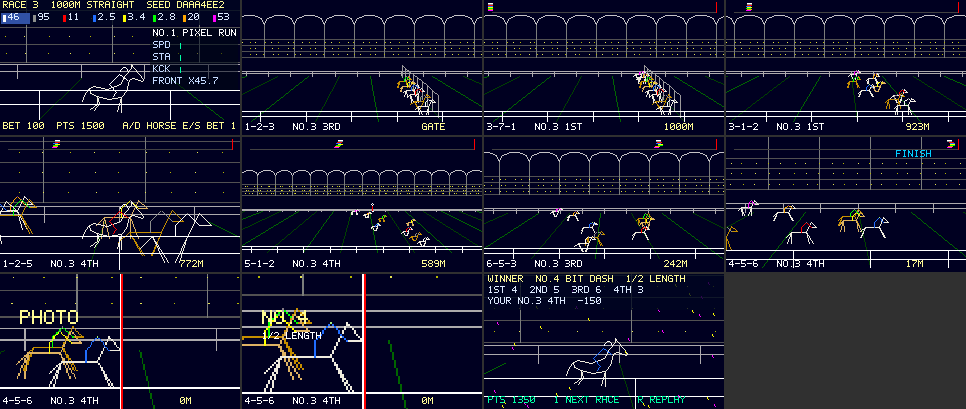
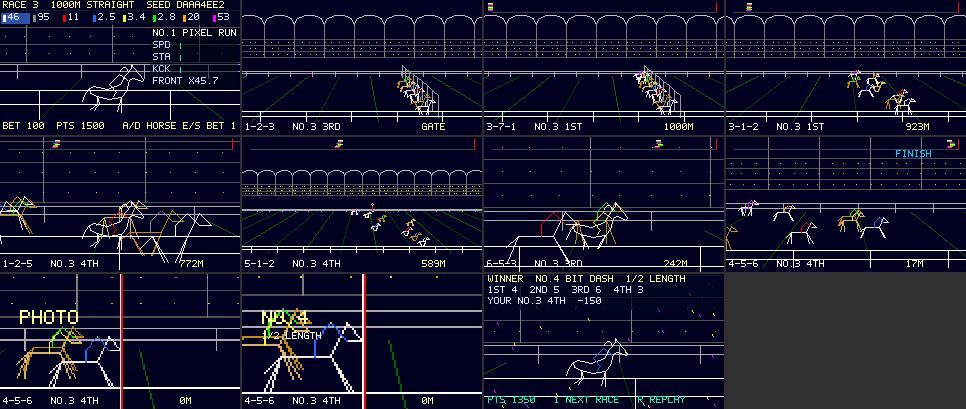
docs(derby): the big screen and the director, with device measurements
Why the screen is drawn on surface 0 (the second surface's frames could
not be allocated), its construction rules, occlusion, the director and
the angles that could and could not be added, host checks, device fps,
heap, the evaluation margin measured with padded sources (6.1-8.7 KB),
host and device pictures, and what to check on the panel.

Changed region(s): [[0.4969, 0.3521, 0.7453, 0.6748]]

diff --git a/docs/apps/derby-watch.md b/docs/apps/derby-watch.md
@@ -4,6 +4,7 @@
 
 ## 結論
 
+- **2026-09-30 追記（2）: 大型画面（ターフビジョン）と演出カメラを足した**（ブランチ `vm/derby-vision`）。コースの向こう側にワールド固定の大型画面が立ち、その中に先頭集団を追う中継映像が映る。レースは監督がカメラを自動で切り替え（手動キーは 5 秒だけ優先）、新しい角度として低い横位置（VISION）と正面（HEAD ON）を足した。**画面は面を 2 枚にせず、面0の中に塗りと映像を描いた**（面1のフレームが実機で確保できなかった）。設計と実測は末尾の「大型画面と演出カメラ（2026-09-30）」。
 - **2026-09-30 追記: 実機で起動に失敗していたのを直した**（`EVAL_ERROR InternalError: interrupted`）。原因はソースの評価中に `pocket.memory.info().internalFreeBytes` が `null` で、起動時の登録ループが終わらなかったこと。実機の数値は下の「実機での測定（2026-09-30）」。以下の本文は host の実測（初版のまま）。
 - **題材は馬、コースは 1000 m の直線、夜のレース。** 横から追うカメラなら奥行きごとの投影が「拡大＋平行移動」になり、割り算の無い VM で柵・観客席・刈り目を ADD の繰り返しで描ける。コースと直交する線（芝の刈り目・ゲート・決勝線）は消失点 (120, 地平線) に集まる。
 - **遊びはパドックで1頭選んで賭けるだけ**（A/D で選択、E/S で賭け金、`1` で決定、オッズ表示）。レース中は `,` `/` でカメラ（WIDE／CLOSE／FIELD）を切り替える。ゴール前 20 m からスロー（FINISH カメラ）、写真判定（決勝線に沿って見る静止画を 2 倍に拡大）、結果（着順・着差・持ち点）、`R` で同じレースを再生、`1` で次のレース。
@@ -273,3 +274,230 @@ C を変えていないので DIRAM が動かないのは期待どおり。
 - **オッズの較正。** 本命側で予測より実際が強い（50% 以上の区間で 59.6% 予測に対し 78.3%）。softmax の裾の形の問題で、ゲームとしては許容したが、賭けの損得は本命買いが有利になる。
 - **レースのモデルの「競り合い」項**は接戦を作るための項で、競馬の物理ではない。
 - **大写しの騎手の頂点は焼いた定数**（`HX`,`HY` を変えたら作り直し。README に生成方法）。
+
+## 大型画面と演出カメラ（2026-09-30）
+
+ブランチ `vm/derby-vision`（`vm/main` 964f634 から）。依頼は「本物の競馬場の大型 LCD（ターフビジョン）を Kasane でうまく再現し、**定点カメラで馬群を追う画面**と、**演出のために角度・倍率を切り替えるカメラ**を並行で動かす」。決めた前提: 大型画面は**ワールド固定**（演出カメラのパン・ズームで画面上の位置と大きさが変わる）、中の映像は常に先頭集団を追い、**fps や描画の細かさは下げてよい**（演出カメラ側のなめらかさを優先）。**数値は種別を明記する**: 実機の実測、host の実測、計算。美的な評価はしない。
+
+### 結論
+
+- **大型画面は面0の中に描いた（1 面のまま）。** 最初の設計（面1を `createSurface` で作って中継を描き、image ノードで貼る）は host の全検査を通ったが、**実機では面1のフレームが確保できなかった**: 評価の直後に空き 56,696 B・最大連続 10,240 B で、1 枚 10,246 B のフレームが 2 枚入らず、評価中・最初のフレーム・以後のどのフレームでも `frame allocation failed`（実機の実測、下の「面を 2 枚にしなかった理由」）。代わりに `vis` plan が画面の面を 1 行 1 本の水平線で塗り、その上に中継映像を同じ `course()` の別カメラ呼び出しで描き、ベゼル・柱を描く（画家のアルゴリズム）。メモリは plan 3 本分（`vis`・`fr`・`hd`、計算で約 2.6 KB＋点列）しか増えず、面1の更新のたびに面0が止まる問題も無い。
+- **ワールド固定の作り方**: 画面は中心 x = 840 m・奥行き 34 m（向こう正面の柵 22.6 m とスタンド 40 m の間）・幅 40 m・高さ 6〜16 m。JS が演出カメラで四隅を投影して `rnd()` した整数の矩形 `vr` を 1 つ作り、**塗り・ベゼル・中継映像・文字のすべてがこの整数を使う**ので、枠と映像がずれない（host で全フレーム検査: 塗りは面の内側ちょうど、最初のベゼルの輪は 1 px 外、不一致 0）。
+- **遮蔽**: 画面の下端 6 m は「どの演出カメラでも、手前の物（馬・柵・距離標 4 m・ゲート 2.6 m）の上端より画面上で上」に来る高さ（計算: `(h − 6)/34 < (h − e)/d` がカメラの高さ h = 1.6〜15 m のすべてで成り立つ）。host は全フレームで、面の後に描いた線分のうち面に丸ごと入らないもの（手前の物、または中継のはみ出し）をラスタ化し、**面の中の画素が 0** であることを確かめた（8 通りの実行すべてで 0）。CLOSE では画面の上端が y < 13（ミニマップに被る）になるので出さない。
+- **2 つのカメラ**: 演出カメラ（全画面）は監督が自動で切り替える（WIDE → FIELD → 先頭交代で CLOSE → ラスト 300 m で CLOSE → 大型画面の前で VISION → 接戦なら HEAD ON → FINISH のスロー）。手動キー（`,` `/`）は 5 秒だけ優先。中継カメラ（画面の中）は先頭の 6 m 後ろ・高さ 3 m の低い横位置で、先頭から `FN` 頭（MID は 4 頭）を映す。
+- **足した角度**: VISION（横からのまま高さ 1.6 m・地平線 y = 84 の低い位置。カメラは画面の前 ±30 m に留まり、馬群が画面の下を駆け抜ける）と HEAD ON（決勝線の 12 m 先の静止カメラが正面から。馬ごとの 1/z は JS の割り算）。**動く斜めのカメラはできない**（下の「角度」）。
+- **実機（MID、診断 image の MDT）**: 画面の無いレース 29.7 fps（JS 15.0 ms、帯描画 9.0 ms）、**画面が映る間（1 レース約 5 秒）26.5 fps**（JS 18.2 ms、帯描画 10.4 ms）、HEAD ON 29.7 fps。キー注入だけの image（MDT なし）の `KASANE_PAINT` 窓では VISION 27.3 fps、他のカメラ 29.8〜30.0 fps。評価の余裕は **6.1〜8.7 KB**（詰め物で測った、下の表）で、これが最も細い資源。ネイティブの空きはレース中の最小 23,200 B、ターン内の最小 14,980 B（ゲートの登録）。`LOADSTALL` なし。
+
+### 構成規則（ワールド固定の大型画面）
+
+| 要素 | 描き方 | 位置の出どころ |
+| --- | --- | --- |
+| 面の矩形 `vr` | JS: `x = 120 + (840 ∓ 20 − cx)·f/34`、`y = hy + (h − 16 または 6)·f/34` を `rnd()` | 演出カメラ `[f, h, hy]` と `cx` |
+| 面の塗り | `vis` plan: 内側の各行に水平線 1 本（`REPEAT_REG` で行数だけ）。色は点灯の演出で黒 → 灰 → 0x0866 | `vr` の整数（入力 0〜3 は `vr[0]−1, vr[1]−1, vr[2], vr[3]`） |
+| ベゼル | 同じ plan: 面の 1 px 外から外へ `b` 本の輪（`b` = 0.4 m の px、最低 1）。上端に明かりの線 | 同じ整数 |
+| 柱 | 同じ plan: 幅の 25% と 75% の位置に 2 本ずつの縦線を、ベゼルの下から奥行き 34 m の地面まで | 同じ整数と `gy(34)` |
+| 中継映像 | `course(カメラ, 先頭−6 m, xs, −1, 0, vr)`: カメラは `[85·z, 3, vr[1] + 4.8·z]`（`z` = 面の幅/120）。柵 2 本（支柱は面の中だけ）と、先頭から `FN` 頭のうち面に丸ごと入る馬 | 面の中心と幅から。面の外へ出る線を作らない |
+| 文字 | view の text 2 つ（残り距離と上位 3 頭、`LIVE`）と rect 1 つ（ランプ、4 フレームごとに色を替えて点滅）。面の幅が 100 px 以上のときだけ表示し、毎フレーム `setRect`。clip はパネル全体 | `vr` から固定のずらし量 `LO` |
+
+描く順は「スタンド → 観客 → 面の塗り・ベゼル・柱 → 中継（柵・馬・手前の柵） → 向こう正面の柵 → 刈り目 → 距離標 → ゲート → 馬 → 手前の柵 → ミニマップ」。面より奥の物（スタンド・観客）は塗りで隠れ、手前の物は面にかからない（上の遮蔽の規則）。
+
+**画面が見えない条件**（`vr = null`、塗りも文字も出さない）: レース以外、HEAD ON、画面外、上端 y < 13（ミニマップ y 2〜12 に被る。CLOSE は常に）、幅 8 px 未満、幅 160 px 超（1 draw のラスタ上限 8,192 の手前。今のカメラの最大は VISION の 153 px で、そのときの `vis` の 1 draw のラスタは 6,849 = 84%、host の実測）。
+
+### 面を 2 枚にしなかった理由（実機の実測）
+
+| 試したこと | 結果 |
+| --- | --- |
+| 面1のフレームを評価中に確保（MEGADEMO の方式: `createSurface` → `resource` → `beginFrame(0, 面1)` → `beginFrame(0)`） | `EVAL_ERROR PocketError: frame allocation failed`（評価中の `beginFrame`）で起動に失敗 |
+| 評価中は面0だけ、面1は最初のフレームから毎フレーム試す（診断） | 評価直後の `MEM free=56,696 largest=10,240`。以後のフレームでも最大連続は 10,240 B のままで、一度も確保できなかった（ゲートで `FRAMEFAIL`） |
+| 参考: 修正前（ソース 23,491 B）の評価直後 | 空き 67,804 B・最大連続 31,744 B（2026-09-30 の前の節） |
+
+1 枚のフレームは `sizeof(ksn_proc_frame)` = 10,246 B（計算、procedural-ir-experiment.md）で、最大連続 10,240 B に 6 B 足りない。ソースが 29.7 KB に増えてゲストが評価で使う領域が広がり（評価後のゲスト: 修正前 109.6 KB、面 2 枚の版 120.8 KB、実機）、10 KB を超える連続領域が残らなかったと推定する（断片化の内訳は測っていない）。**ネイティブを変えずに 20 KB の連続領域を作る手が無い**ので、面0に描く形にした。副産物:
+
+- 面1の更新のたびに面0が 1 フレーム止まる問題（表示待ちの候補は全面で 1 枚）が起きない。中継も演出カメラと同じフレームで描かれる。
+- 中継は線画のまま拡大・縮小されるので、image の STRETCH（最近傍）の間引きが無い。
+- 引き換えに、画面が映るフレームは JS と帯描画が増えて fps が下がる（下の表。面1なら「止まるフレーム」、面0なら「全体が少し遅い」になる）。
+
+**ネイティブに変更を勧めるなら**（根拠つきの提案。今回は変えていない）: 面ごとに線分の上限を選べる `createSurface({segments: n})`。中継は MID で 1 フレーム平均 63 本（host: 309 フレームで 19,587 本）なので、n = 256 ならフレームは約 2.6 KB（計算: 10 B × 256）になり、今回の断片化でも確保できる見込み。
+
+### 監督（自動切替）の規則
+
+先頭の位置 L（m）で決める。1 回切り替えたら 45 フレーム保つ。先頭交代は 400 m を過ぎたら 60 フレームの CLOSE（新しい先頭）。
+
+| L | カメラ | ねらい |
+| --- | --- | --- |
+| 0〜150 | WIDE | 発走 |
+| 150〜400 | FIELD | 馬群の広がり |
+| 400〜700 | WIDE（先頭交代で CLOSE） | 先頭交代 |
+| 700〜780 | CLOSE（その時の先頭） | ラスト 300 m |
+| 780〜900 | VISION | 大型画面の前を駆け抜ける。画面の中の中継と、手前の馬群が同時に映る |
+| 930〜980、1・2 着の差 < 1.5 m | HEAD ON（スローまで保つ） | ゴール前の接戦 |
+| 980〜 | FINISH（スロー） | 従来どおり |
+
+手動のキー（WIDE / CLOSE / FIELD の順送り）は押してから 150 フレーム優先し、その後は監督に戻る。手動の CLOSE は選んだ馬、監督の CLOSE は先頭。再生（`R`）は同じ種で同じカメラの流れになる（カメラはレースを変えない: host と実機で `DERBY FINISH` 行が全桁一致）。
+
+### 角度: できたこと・できないこと
+
+| 角度 | 判断 | 理由 |
+| --- | --- | --- |
+| 低い横位置（VISION） | **足した** | 横からのカメラのまま、高さと地平線だけを変える（`[130, 1.6, 84]`）。投影は今までどおり「拡大＋平行移動」 |
+| 正面（HEAD ON） | **足した（接戦のときだけ、静止カメラ）** | 馬ごとに奥行き z が違うが、割り算は JS が馬ごとに 1 回（`q = 400/z`）で済み、正面の馬の plan `fr`（56 命令・入力 7）に x・地面・1 単位の px を渡す。カメラが動かないので、柵・決勝線・スタンド・大型画面（真横から見た薄い台形）は型付き点列 1 本（44 点）の定数にした。奥の馬から描く（`order()` の逆順） |
+| 動く斜めのカメラ | **足さない** | 直線は透視でも直線なので柵の線は JS の端点 2 つで描けるが、支柱・刈り目・観客の点・馬の頂点は奥行きが 1 つずつ違い、VM に割り算が無い。BIG WAVE の 1/d の級数（`y(1 − u + u² − u³)`）は 1 plan で 12 命令を使い、波の plan は 62/64 命令・16/16 レジスタで上限だった。走者の plan（40 命令・16 レジスタ）に級数を足す余地は無く、横向きの馬の絵を斜めに歪める射影は入力 8 個に入らない |
+| 回転（MEGADEMO の TWIST の複素数倍） | **足さない** | 断面ごとに z を掛ける幾何級数は、廊下のように「世界に固定されない断面」には使えるが、コースの支柱は世界に固定されている（BIG WAVE の却下案と同じ） |
+
+### 検証（host）
+
+`python3 tools/games/run_derby.py`（WSL、ASan/UBSan）と `--m32`。今回足した検査:
+
+| 検査 | 内容 | 結果（全 8 通り: MID の全台本、LIGHT・HEAVY、各段階の監督だけ（`DERBY_NOCAM=1`）、LIGHT・HEAVY で 8 番を選んで手動 CLOSE（`DERBY_PICK=7`）） |
+| --- | --- | --- |
+| 塗りとベゼル | `vis` の最初の `rows` 本が面の内側の各行ちょうど（x は `vr[0]..vr[2]−1`）、続く 4 本が 1 px 外の矩形 | 誤り 0 |
+| 面の上の異物 | 面の後に描いた線分のうち、面に丸ごと入らないものをラスタ化し、面の中の画素を数える | 0 px（MID: 面のあるフレーム 329、中継の線分 19,587 本はすべて面の中） |
+| 文字 | 表示中の文字ノード（clip をパネル全体にした ref）の矩形が、そのフレームの面の中に入り、面が描かれたフレームでだけ表示される | はみ出し 0（MID: 179 フレーム、537 回） |
+| 全画素・3 通りの実行 | 従来どおり（全 draw を plan・デバッグ単歩・単歩 VM で一致、全フレームを全面と 8 行の帯で全画素比較） | 不一致 0 |
+| ref とコマンド | `replace` ごとの ref 数、`stats().displayed.commands` | 最大 30/32（パドック、従来どおり）・30/80。レースの場面は 9 ref（計算: 画像 1＋HUD 5＋文字 3） |
+
+**実機で見つけて直した既存の潜在不具合**: LIGHT（刈り目 10 m 間隔）で遠いレーンの CLOSE（焦点距離が最大 509）になると、刈り目の最初の線の手前端が x = −483〜−499 になり VM の座標範囲（−480〜720）を外れて `procedural execution failed` で止まった。手動の CLOSE は選んだ馬だけだったので、これまでの台本（3 番）では出なかった。監督が先頭（どのレーンでもありうる）を CLOSE にするようになって実機で出た。手前端が −470 より左になる刈り目を描かないようにした（`i0` の下限）。host に「監督だけ」と「8 番の CLOSE」の実行を足した。
+
+#### フレームごとの統計（host、MID の台本、レースの場面）
+
+| フレーム | 数 | draw 最大 | 線分 最大 / 平均 | ラスタ 最大 / 平均 | 1 draw のラスタ 最大 | フレームのステップ 最大 |
+| --- | ---: | ---: | ---: | ---: | ---: | ---: |
+| 画面なし | 2,293 | 16 | 491 / 347 | 6,650 / 5,039 | 2,370 | 2,861 |
+| 画面あり | 329 | 22 | 581 / 469 | 12,750 / 10,050 | 6,849（`vis`） | 3,203 |
+| 画面あり（LIGHT） | 158 | 21 | 341 / 318 | 12,102 / 11,562 | 6,849 | 1,661 |
+| 画面あり（HEAVY） | 158 | 24 | 654 / 570 | 13,405 / 12,868 | 6,849 | 3,737 |
+
+| 上限 | 値 | 使用（全実行の最大） | 率 |
+| --- | --- | --- | --- |
+| 線分／フレーム | 1,024 | MID 581（HEAVY 759、画面なしの FIELD） | 57%（74%） |
+| ラスタ／フレーム | 65,535 | 13,405 | 20% |
+| ラスタ／draw | 8,192 | 6,849（VISION の `vis`、面 153×38 px の塗り） | 84% |
+| VM ステップ／draw | 10,000 | 3,861（HEAVY の観客） | 39% |
+| 命令／plan | 64 | 56（`fr`）、`vis` 54 | 88% |
+| 同時 plan | 32 | 25 | 78% |
+| 点列の点数 | 128 | 44（`hd`） | 34% |
+| 点列の座標 | −480〜720 | −155〜425 | — |
+| 面 | 2 | 1 | 50% |
+
+#### ゲスト heap（host、m32）
+
+| 項目 | 値 | 種別 |
+| --- | --- | --- |
+| ソース | 23,491 → 29,698 B（+6,207） | 実測 |
+| コンパイルのピーク（`DERBY_COMPILE_ONLY`） | +100,400 → +113,424 B（+13,024） | host の実測 |
+| コンパイル後の保持 | +46,388 → +51,564 B | host の実測 |
+| 実行中の GC 後の最大 | 133,908 B（host の計数用 prelude 38,996 B 込み） | host の実測 |
+
+コンパイルのピークはコード量に比例しない（1.5 倍ずつ伸びる内部バッファの段がある）。小さな関数を消す・数値の表を文字列にする、は 0.1〜1 KB しか効かなかった（host の実測）。
+
+### 実機での測定（2026-09-30）
+
+**この節の数値は実機の実測**。image は 3 種: 診断（`-DKASANE_MEGADEMO_TRACE=ON -DPOCKET_KEYTEST=ON`、1 ターン 1 行の `MDT`）、キー注入だけ（`-DPOCKET_KEYTEST=ON`、fps とキャプチャ）、通常（回帰と最後の書き込み）。USB からキーを送って APPS の 12 行目を起動し、パドックで `1`、レース・写真判定・結果、`R` で再生、`1` で次のレース、Back。
+
+#### fps と時間（MID、最終のソース、診断 image の MDT。2 レース＝本番と再生）
+
+| 場面・カメラ | ターン数 | JS 中央値 / p95（ms） | 帯描画（ms） | フレーム間隔 中央値 / p95 / 最大（ms） | fps |
+| --- | ---: | ---: | ---: | ---: | ---: |
+| パドック | 107 | 8.2 / 37.9（登録とオッズ） | 12.4 | 34.0 / 58.8 / 75.5 | 27.8 |
+| ゲート | 82 | 11.2 / 25.6 | 9.0 | 34.0 / 43.9 / 48.0 | 27.9 |
+| レース（画面なし） | 2,344 | 15.0 / 16.6 | 9.0 | 33.7 / 34.9 / 38.6 | 29.7 |
+| 　うち FIELD | 600 | 15.8 / 17.0 | 9.1 | 34.0 / 35.3 / 38.6 | 29.3 |
+| 　うち CLOSE | 272 | 13.2 / 13.6 | 8.8 | 34.0 / 34.0 / 37.3 | 29.8 |
+| **レース（画面あり、VISION と WIDE）** | 292 | **18.2 / 18.7** | **10.4** | **37.7 / 38.4 / 41.4** | **26.5** |
+| HEAD ON（1 つ前の版、別の 1 レース） | 50 | 10.8 / 11.2 | 8.8 | 34.0 / 34.0 / 37.2 | 29.7 |
+| 写真判定 | 222 | 10.3 / 10.6 | 22.0 | 41.2 / 42.3 / 51.3 | 24.2 |
+| 結果 | 129 | 7.1 / 7.6 | 11.4 | 34.0 / 34.1 / 42.9 | 29.9 |
+
+画面のあるフレームの間隔のばらつき（標準偏差）は 0.63 ms で、面を 2 枚にしたときに予想した「数フレームに 1 回止まる」形のカクつきは無い（全体が一様に遅くなる）。キー注入だけの image（MDT の出力なし）の `KASANE_PAINT` 30 フレーム窓では、VISION 27.3 fps（turn 18.1 ms、render 10.4 ms）、WIDE・FIELD・CLOSE・FINISH 29.8〜30.0 fps、写真判定 25.0 fps、パドック 29.8 fps。
+
+**段階ごと**（診断 image、1 レースずつ。「1 つ前の版」＝最後の 2 つの JS の最適化（1 フレーム 1 回の並べ替え、矩形の計算を関数から外す）の前。MID で画面ありのフレームが 25.7 → 26.5 fps に変わった程度）:
+
+| 段階 | 画面なしのレース fps（最も遅いカメラ） | 画面ありの fps | 画面ありの JS（ms） |
+| --- | --- | ---: | ---: |
+| LIGHT | 29.9（FIELD 29.8） | 26.6 | 18.3 |
+| MID（既定） | 29.5（FIELD 29.0） | 25.7 | 19.4 |
+| HEAVY | 27.8（FIELD 25.6） | 24.3 | 21.5 |
+
+既定は MID のまま（画面なしのレースで 29 fps 以上を保つ最も重い段階。HEAVY は FIELD で 25.6 fps）。中継に映す馬の数 `FN` は段階の中に入れた（3・4・6 頭）。
+
+**画面ありのフレームが遅くなる内訳**（診断用に `Date.now()` で区間を測った一時的な版、60 フレーム平均）: `course()` の組み立て 3.75 → 6.0〜6.6 ms（中継の分）、`V.patch`（HUD と文字）2.0 → 3.0〜3.4 ms、draw の呼び出しはほぼ同じ。中継を 3 フレームに 1 回だけ組み立て、間のフレームは面の移動量だけ入力をずらす形も試したが、`map` のコールバックで書いた版は逆に 1 ms 遅く、素のループで書いた版でも 1 fps しか上がらなかったので採らなかった（ソースが増えて評価の余裕を食う）。
+
+#### メモリ
+
+| 項目 | 値 |
+| --- | --- |
+| 起動（`APP_ID` → `RUN ... ESP_OK`、通常 image） | 209〜211 ms（評価の期限 2 秒の約 10%） |
+| 評価直後（通常 image の `MEM`） | 空き 60,792 B、最大連続 20,480 B、ゲスト 116,836 B |
+| ネイティブの空き（ターン境界の最小） | パドック 40,904、ゲート 23,616、レース 23,200、写真判定 22,832 B |
+| ネイティブの空き（ターン内の最小 `mn`） | ゲート 14,980、レース（画面あり）17,544、写真判定 18,084 B |
+| 登録したターンの heap の落ち込み | 最大 12.6 KB（ゲート）、8.1 KB（パドック） |
+| ゲスト heap（`gu`、ターン境界の最大） | 129,652 B（写真判定）。上限 163,840 B |
+| `LOADSTALL`・`LOADFAIL`・`FRAMEFAIL`・OOM | なし（修正後の全実行） |
+| **評価の余裕** | 最終の 1 つ前のソース（host のコンパイルのピーク +114,608 B）に、何もしない関数を足してピークを +6.1 KB にした版は起動し、+8.7 KB の版は評価で OOM（`used=162,360`）、+12.5 KB も OOM。**余裕は 6.1〜8.7 KB**。最終のソース（+113,424 B）は計算でさらに約 1.2 KB 余る。修正前のソース（+100,400 B）は計算で約 20 KB 余っていた |
+
+**plan の登録の門を 22,528 → 18,432 B に下げた。** 大型画面の plan 3 本と大きくなったソースの分だけゲートでの空きが減り、登録を始めるときの空きは最小 25.5 KB だった（門まで 3 KB）。登録のターンの落ち込みは最大 12.6 KB なので、18 KB の門でもターン内に 5 KB 以上残る（MEGADEMO が破綻とみなした 4 KB の上）。
+
+#### 一通りの進行（キー注入 image）
+
+パドック（`LOADED points=7010 race=5`）→ `1` → ゲート（13 本、`GO`）→ レース（FIELD → WIDE → CLOSE → VISION → WIDE → FINISH）→ 写真判定 → 結果 → `R` で再生（`DERBY FINISH` 行は 1 回目と全桁一致）→ 結果 → `1` → パドック（race 6）→ Back で `SAVE points=6910 race=6` → `APP_STOPPED`（`MEM free=221,052`）→ 再起動で `LOADED points=6910 race=6`。例外・`FRAMEFAIL`・runaway・Guru Meditation なし。
+
+#### 見てもらう画像
+
+![host の描画（左上から: 点灯前の黒い画面、VISION、そのパン、WIDE で見える画面、CLOSE で画角の外、FIELD で小さい画面、先頭交代の CLOSE、HEAD ON、FINISH）](derby-watch-vision-preview.png)
+
+`python3 tools/games/run_derby.py --ppm` が作る。host の描画で、実パネルの撮影ではない。技術的な性質（MID、そのフレームの面0）:
+
+| コマ | 場面 | draw | 線分 | ラスタ | VM ステップ | 同時 plan | 色数 |
+| --- | --- | ---: | ---: | ---: | ---: | ---: | ---: |
+| 1 | VISION、点灯前（面は黒） | 10 | 277 | 11,117 | 1,599 | 24 | 24 |
+| 2 | VISION、中継あり | 22 | 419 | 12,578 | 2,066 | 24 | 35 |
+| 3 | 2 の 30 フレーム後（カメラが追う） | 21 | 421 | 12,505 | 2,148 | 24 | 35 |
+| 4 | WIDE、画面は左上 | 21 | 452 | 9,551 | 2,383 | 24 | 33 |
+| 5 | 再生の CLOSE（画面は出さない） | 15 | 253 | 6,228 | 1,153 | 24 | 25 |
+| 6 | 再生の FIELD（面 68 px、文字なし） | 22 | 578 | 6,818 | 3,188 | 24 | 34 |
+| 7 | 先頭交代の CLOSE | 11 | 182 | 5,560 | 866 | 24 | 22 |
+| 8 | HEAD ON | 10 | 157 | 4,181 | 498 | 24 | 16 |
+| 9 | FINISH（スロー） | 14 | 284 | 5,092 | 1,567 | 24 | 29 |
+
+view は画像 1・HUD の text 5・画面の文字 3（text 2、rect 1）で、文字の更新は `setRect` 3 回（毎フレーム）と `setText`・`setColor` 各 1 回（4 フレームごと）。
+
+![実機のキャプチャ（VISION、中継と文字が出ている 2 枚、約 0.4 秒違い）](derby-watch-vision-device.png)
+
+キー注入 image の `s`（`board_capture`、転送前の RGB565）。パネルそのものは読んでいない（MISO 未配線）。
+
+#### 回帰（通常 image、同じソース）
+
+| 試験 | 結果 |
+| --- | --- |
+| `tools/smoke_device.py --port COM3 --cycles 20`（APPS のカーソルを先頭に戻してから） | `SMOKE_OK 20` |
+| `tools/test_app_resume.py --port COM3` | `TEST_APP_RESUME_OK` |
+| LCD CATCH（11 行目）・BIG WAVE（13 行目）・MEGADEMO（8 行目）の起動 | 3 本とも `RUN ... ESP_OK`、`EVAL_ERROR`・`START_FAILED` なし |
+| DERBY WATCH の起動 | `RUN 29675 bytes -> ESP_OK`、パドック 30 fps |
+| `tools/memlog.py --map build_derbyvision/cardputer_pocketjs.map` | DIRAM 172,204 B（+0）。C は変えていない |
+| host `run_derby.py`（ASan）・`--m32` | 8 通りすべて `DERBY_HOST PASS` |
+
+### 却下した案
+
+| 案 | 理由 |
+| --- | --- |
+| 面1（`createSurface`）に中継を描き image ノードで貼る | 実機で面1のフレームが確保できない（上）。確保できても、面1を更新するフレームは面0が止まる |
+| 画面を観客席の屋根の上（40 m より奥）に置く | WIDE の地平線（y = 33）より上には 23 px しか無く、屋根（13.5 m）より上に 4:1 の画面を置くと上端がミニマップ（y 2〜12）に被る。スタンドより奥に置くと、画像が手前のスタンドの線の上に来て遮蔽が逆になる |
+| 画面をもっと遠く（100 m 以上）に置いて長く見せる | 同じく屋根の上しか空きが無く小さくなる。見える区間の長さは奥行きに比例するが、34 m で WIDE では約 120 m 走る間しか見えない。代わりに監督の VISION で画面の前を見せる |
+| 中継を数フレームに 1 回だけ組み立て、面の移動量だけずらす | 実機で 1 fps 程度しか速くならず、ソースが増えて評価の余裕を食う（上） |
+| 中継の文字を 7 セグメントの線で描く（面1の案で作った） | 1 桁 1 draw（入力 8 個: x と 7 セグメントの色）で、面0に描くと y の入力が足りない。view の text にした（面の大きさでは拡縮しないので、小さい面では出さない） |
+| 動く斜めのカメラ | 上の「角度」 |
+
+### 人が実パネルで確かめること
+
+1. **大型画面の見え方**: 面の色（0x0866）が夜空（0x0004）から「光っている画面」に見えるか、ベゼルと柱（暗い灰色）が見えるか、中継の馬（面が 118〜153 px のとき 1 頭 5〜12 px）が読めるか、文字（残り距離・上位 3 頭・LIVE と点滅するランプ）の大きさと色。
+2. **画面が映る約 5 秒の fps の低下**（29.7 → 26.5 fps、一様に遅くなる）が気になるか。気になるなら LIGHT（26.6 fps）でも大差ないので、中継の中身を減らすより、画面の面の塗り（面の画素ぶんのラスタ）を減らすのが効く見込み（未検証）。
+3. **VISION の構図**（カメラが画面の前に留まり、馬群が下を駆け抜ける）と、監督の切り替えの間合い（45 フレーム保持、先頭交代で CLOSE）。
+4. **HEAD ON**（接戦のときだけ、約 2 秒＝50〜72 フレーム）の馬の大きさ（z = 32〜82 m で 1 頭の高さ 11〜29 px、計算）と、正面の馬の形（前脚 2 本・胴・首・騎手）。
+5. 点灯の演出（画面が見えてから黒 8 フレーム → 灰 3 フレーム → 映像）。
+
+### 確信の低い点
+
+- **評価の余裕（6.1〜8.7 KB、最終のソースは計算でさらに約 1.2 KB）が最も細い。** 詰め物の関数でピークを上げて測ったので、ピークの「段」の位置によってはこの幅の中のどこかで失敗する。ソースを足すときは `DERBY_COMPILE_ONLY=1` で host のピークを見て、+113,424 B から 6 KB 以上増やさない。
+- **面1が確保できなかった原因の内訳**（評価で残る断片の分布）は測っていない。「ソースが大きくなった分」という推定。
+- 中継に映る馬は「面に丸ごと入る」ものだけなので、面の端では馬が急に現れ・消える。
+- 遮蔽の規則は今のカメラ（高さ 1.6〜15 m）で成り立つ。高さ 1.6 m 未満や、奥行き 34 m より手前に物を置くカメラを足すときは、host の「面の上の異物」の検査で確かめる。

diff --git a/apps/derby/README.md b/apps/derby/README.md
@@ -9,7 +9,7 @@
 | パドック | `A` / `D` | 前の馬 / 次の馬 |
 | パドック | `E` / `S` | 賭け金 +50 / −50（50〜500、持ち点まで） |
 | パドック | `1` | 決定（オッズが出てから）→ ゲート |
-| ゲート・レース | `,` `/`（`A` `D` も可） | カメラ WIDE → CLOSE → FIELD の順に戻る / 進む |
+| ゲート・レース | `,` `/`（`A` `D` も可） | カメラ WIDE → CLOSE → FIELD の順に戻る / 進む。押してから 5 秒（150 フレーム）は監督（自動切替）より優先し、その後は監督に戻る |
 | 写真判定 | `1` | 先へ（20 フレーム後から。放っておいても 110 フレームで結果へ） |
 | 結果 | `1` | 次のレース（種が変わる） |
 | 結果 | `R` | 同じレースをもう一度（同じ種。持ち点は動かない） |
@@ -56,7 +56,7 @@
 - **plan は 22 本まで同時に使う**（上限 32）。場面ごとに登録・解除する（下）。
 - **走る馬（遠景）** は `runner` plan（40 命令・16 レジスタ）を8頭ぶん、毛色・勝負服・帽子の色を定数に焼いて登録する（1 頭 1 plan）。入力 8 個（腰の x、背の y、1 単位の px、地面の y、後脚2・前脚2 の蹄の x）を JS が毎フレーム計算する。点は 2.5 単位の格子に並べ、`2.5S` と `−2.5S` の2レジスタを足していくだけで全頂点を作る（1 頂点 1 命令。素直に `SET+MUL+ADD` だと 1 座標 3 命令で 64 命令に収まらなかった）。
 - **大写しの馬（CLOSE カメラ・パドック・結果）** は型付き点列（`affineQ14Points`）。点列の変換は登録時に固定なので、**画面上で動かない馬にだけ使える**。そこで CLOSE カメラを「選んだ馬の腰が常に (92, 88)、1 単位 4 px」になるよう、レーンごとに焦点距離 `f = 24·d` を決めた。ギャロップの 6 コマ（`g0`〜`g5`、各 36 点、半ピクセル座標で倍率 0.5）を登録しておき、脚の位相でコマを選ぶ（MEGADEMO の ZENITH の「ロール角ごとの点列表」と同じ考え）。騎手（`silk`）は VM で、勝負服の色を入力にして8頭で共有する。頂点は馬のモデルから焼いた定数（`HX`,`HY` を変えたら作り直す）。
-- **奥から手前へ** 描く: スタンド → 観客 → 向こう正面の柵 → 芝の刈り目 → 距離標・決勝柱 → ゲート → 馬（外枠＝奥から） → 手前の柵 → ミニマップ。隠面消去が無いので、手前の柵は馬の脚の上に重なる（柵越しに見る絵）。
+- **奥から手前へ** 描く: スタンド → 観客 → **大型画面（面の塗り・中継映像・ベゼル・脚）** → 向こう正面の柵 → 芝の刈り目 → 距離標・決勝柱 → ゲート → 馬（外枠＝奥から） → 手前の柵 → ミニマップ。隠面消去が無いので、手前の柵は馬の脚の上に重なる（柵越しに見る絵）。
 - **写真判定** は決勝線の延長上から線に沿って見る（`cx = 1000`）。このとき決勝線はどの奥行きでも x = 120 の縦線になる（本物の写真判定カメラと同じ幾何）。各馬は「勝ち馬が線を越えた瞬間の位置」に置き、view の image を 2 倍に拡大して見せる。
 
 騎手の `silk` プログラムは次の生成器の出力をそのまま貼った（生成器をソースに置くとコンパイルのピークが約 2 KB 増えた）。`HX`,`HY`,`HS` か馬の形を変えたら作り直す。
@@ -74,20 +74,61 @@ for (let i = 0; i < 18; ++i) {
 console.log(s + ' C5,65535');
 ```
 
+## 大型画面（ターフビジョン）
+
+内馬場（コースの向こう側、観客席の手前）に立つ大型画面。**ワールドに固定された物体**で、ゲーム演出のカメラのパン・ズームで画面上の位置と大きさが変わる。中には「先頭集団を追う中継カメラ」の映像が映る。設計の経緯・実測は docs の「大型画面と演出カメラ」。
+
+- **置き場所** `VS = [840, 34, 20, 6, 16]`: 中心 x = 840 m（ゴールの 160 m 手前）、奥行き 34 m（向こう正面の柵 22.6 m とスタンド 40 m の間）、幅 40 m、下端 6 m・上端 16 m（4:1）。
+- **面（画面の枠内）は面0の中で塗る。** `vis` plan が面の内側を 1 行 1 本の水平線で塗り（入力 6 の色）、その外側に 1 px 外から `b` 本のベゼルの輪（`b` = 0.4 m を px にした値、最低 1）、上端の明かり、2 本の脚（柱）を地面まで描く。矩形は JS が `rnd()` した整数（`vr`）で、塗り・ベゼル・中継映像・文字のすべてがこの同じ整数を使う（host が全フレームで一致を検査）。
+- **中継映像** は同じ `course()` を別のカメラで呼んで、面の中に描く: 焦点距離 `85×(面の幅/120)`、高さ 3 m、地平線は面の上端から `4.8×(面の幅/120)`、先頭の 6 m 後ろ。描くのは柵 2 本（支柱は面の中だけ）と、**先頭から `FN[tier]` 頭（LIGHT 3・MID 4・HEAVY 6）のうち面に丸ごと入る馬だけ**（面からはみ出す線を出さない。画家のアルゴリズムで、塗りの上に描けば後ろのスタンドは隠れる）。
+- **文字**（残り距離と上位 3 頭「167M 3-5-1」、`LIVE`、点滅するランプ）は Kasane の view ノード 3 つ（text 2・rect 1）。面が 100 px 以上の幅で見えている間だけ出し、毎フレーム `setRect` で面に合わせる（`setRect` は clip を動かさないので、clip はパネル全体）。文字は面の大きさで拡縮しないので、小さく映る FIELD では出さない。
+- **点灯の演出**: その日初めて見えてから 8 フレームは黒、3 フレーム灰色、それから映像（`von`）。
+- **見えない条件**（`vr = null`）: レース以外、HEAD ON、画面の外、**上端が y < 13**（ミニマップ y 2〜12 に被る。CLOSE では常にこれ）、幅が 8 px 未満または 160 px 超（1 draw のラスタ上限 8,192 の手前で止める。今のカメラで最大は VISION の 153 px）。
+- **遮蔽**: 面は向こう正面の柵より奥にあり、下端 6 m は「どのカメラでも、手前の物（馬・柵・距離標 4 m・ゲート 2.6 m）の上端より画面上で上」になる高さにした（`(h − 6)/34 < (h − e)/d` がすべてのカメラの高さ h で成り立つ）。host は面の後に描いた線分のうち面に丸ごと入らないものをラスタ化し、面の中の画素が 0 であることを全フレームで確かめる。
+
+### なぜ面を 2 枚にしなかったか
+
+最初は「面1（`createSurface`）に中継を描き、image ノードで貼る」形で作った（host の全検査も通った）。実機では起動（評価）の直後に空き 56,696 B・**最大連続 10,240 B** で、面1のフレーム（10,246 B の連続領域が 2 枚）が確保できず `frame allocation failed` で起動に失敗した（評価中・最初のフレーム・以後のフレームのどれでも）。ネイティブを変えずに 20 KB を空ける手は無く、面1の更新のたびに面0が止まる（表示待ち候補は全面で 1 枚）問題も無くなるので、面0の中に塗りと中継を描く形に変えた。
+
+## 監督（カメラの自動切替）と角度
+
+レース中はキーを押さなければ監督がカメラを選ぶ（先頭の位置 L で決める。1 回切り替えたら 45 フレームは保つ）。
+
+| 先頭の位置 | カメラ |
+| --- | --- |
+| 0〜150 m | WIDE |
+| 150〜400 m | FIELD（馬群の広がり） |
+| 400〜700 m | WIDE。先頭が替わったら 60 フレーム、新しい先頭の CLOSE |
+| 700 m〜`VS[0]−60` | CLOSE（先頭。ラスト 300 m） |
+| `VS[0]±60` m | **VISION**（低い横位置 `[130, 1.6, 84]`。カメラは大型画面の前 ±30 m に留まるので、馬群が画面の下を駆け抜ける） |
+| 930 m〜、1・2 着の差 1.5 m 未満 | **HEAD ON**（接戦のときだけ。スローになるまで保つ） |
+| 980 m〜 | FINISH（スロー、従来どおり） |
+
+**HEAD ON（正面）**: 決勝線の 12 m 先・高さ 2.2 m・内外の中央に置いた静止カメラが、コースを逆向きに見る。馬ごとに奥行き z が違うので透視の割り算が要るが、**割り算は JS が馬ごとに 1 回**（`q = 400/z`）して、正面の馬の plan `fr`（56 命令、入力 7 個: x・地面の y・1 単位の px・毛色・勝負服・左右の前脚の上げ幅）に渡す。カメラが動かないので、柵・決勝線・スタンド・大型画面（真横から見た薄い台形）は 1 本の型付き点列 `hd`（44 点）に焼いた。点は次で作った（カメラを変えたら作り直す）:
+
+```python
+XC, C0, H, F, HY = 1012, 16.5, 2.2, 400, 50        # カメラの x・横位置・高さ、焦点距離、地平線
+P = lambda x, lat, e: (round(120 + (lat - C0) * F / (XC - x)), round(HY + (H - e) * F / (XC - x)))
+# 消失点 (120, 50) から: 柵の上端 (x=1004, 横 11 / 22.6, 高さ 1.1)、地面の線、決勝線 (x=1000)、
+# 刈り目 (x=950, 900)、大型画面 (x 820〜860, 横 34, 高さ 6〜16) と脚、スタンド (横 40) の柱 6 本
+```
+
+**できなかった角度**: 動く斜めのカメラ。直線は透視でも直線なので柵は JS の端点 2 つで描けるが、支柱・刈り目・観客・馬の奥行きが 1 本ずつ違い、VM に割り算が無い。BIG WAVE の級数（`1/(d+D)` を 3 次で打ち切る）は 1 plan の命令とレジスタを使い切っており（62/64・16/16）、馬の横向きの絵を斜めに歪める変換（射影）は入力 8 個に入らない。HEAD ON はカメラを止めることで背景を定数にし、馬だけを JS の割り算で置いて成り立たせた。VISION は横からのまま高さと地平線だけを変えた「低い角度」。
+
 ## plan の登録（場面ごと、1 フレーム 1 本）
 
 | 場面 | 登録 | 解除 |
 | --- | --- | --- |
 | 起動 | パドックの 12 本を最初のフレームから 1 フレーム 1 本（評価中は登録しない） | — |
-| ゲート | `gate`・`r0`〜`r7`・`map`（10 本）を 1 フレーム 1 本。**馬が1頭ずつゲートに入る演出が、そのまま読み込み** | — |
+| ゲート | `gate`・`r0`〜`r7`・`map`・`vis`・`fr`・`hd`（13 本）を 1 フレーム 1 本。**馬が1頭ずつゲートに入る演出が、そのまま読み込み** | — |
 | レース | なし（`tab` を押したときだけスタンドと観客の 2 本） | 先頭が 120 m を過ぎたら `gate` |
 | 写真 | `photo`（静止画の間なので引っかかりが見えない） | — |
-| 結果 | `conf`（紙吹雪） | `r0`〜`r7`・`map`・`photo` |
+| 結果 | `conf`（紙吹雪） | `r0`〜`r7`・`map`・`vis`・`fr`・`hd`・`photo` |
 | 次のレース／再戦 | 次の場面の分 | `conf` |
 
-登録は `pocket.memory.info().internalFreeBytes` が 22,528 B 以上のときだけ（MEGADEMO の実機測定: 1 本の登録でターン内の heap が最大 14.6 KB 減る）。ゲートは 300 フレーム待っても全部そろわなければ `GO LOADSTALL` を出して走らせる（そろわない馬は描かれない）。
+登録は `pocket.memory.info().internalFreeBytes` が 18,432 B 以上のときだけ。実機（2026-09-30、大型画面を足した後）で、登録したターンの heap の落ち込みは最大 12.6 KB（ゲート）、パドックで 8.1 KB だったので、門で登録しても 5 KB 以上残る（MEGADEMO が破綻とみなした 4 KB の上）。門の値は以前 22,528 B（MEGADEMO の値）だったが、大型画面の分だけゲートでの空きが減り（登録の始まりで最小 25.5 KB）、余裕が 3 KB しか無かったので下げた。ゲートは 300 フレーム待っても全部そろわなければ `GO LOADSTALL` を出して走らせる（そろわない馬は描かれない）。
 
-**評価中（トップレベル）に `load()` を呼ばない。** 実機の `internalFreeBytes` はターンの始めに採るので、ソースの評価中は `null` で、門（`null < 22528` は真）を越えられない。値はターンの中では変わらないので、「登録できるまで回す」ループは終わらない。2026-09-30 まで起動時に `while (queue.length && reg < 3) load();` があり、実機ではこれが 2 秒の評価期限まで回って起動に失敗していた（docs の「実機での測定」）。host の台本も評価中は `null` を返すようにした。
+**評価中（トップレベル）に `load()` を呼ばない。** 実機の `internalFreeBytes` はターンの始めに採るので、ソースの評価中は `null` で、門（`null < 18432` は真）を越えられない。値はターンの中では変わらないので、「登録できるまで回す」ループは終わらない。2026-09-30 まで起動時に `while (queue.length && reg < 3) load();` があり、実機ではこれが 2 秒の評価期限まで回って起動に失敗していた（docs の「実機での測定」）。host の台本も評価中は `null` を返すようにした。
 
 ## 音
 
@@ -99,20 +140,20 @@ console.log(s + ' C5,65535');
 
 ## 負荷の段階（`KN`、`tab`）
 
-| 段階 | スタンドの段 | 観客の列×1 区画の点 | 屋根の弧の分割 | 柵の支柱の間隔 | 刈り目の間隔 |
-| --- | --- | --- | --- | --- | --- |
-| LIGHT | 3 | 2×3 | 3 | 8 m | 10 m |
-| MID（既定） | 4 | 3×4 | 5 | 5 m | 7 m |
-| HEAVY | 5 | 4×6 | 8 | 4 m | 5 m |
+| 段階 | スタンドの段 | 観客の列×1 区画の点 | 屋根の弧の分割 | 柵の支柱の間隔 | 刈り目の間隔 | 中継に映す馬（`FN`） |
+| --- | --- | --- | --- | --- | --- | --- |
+| LIGHT | 3 | 2×3 | 3 | 8 m | 10 m | 3 |
+| MID（既定） | 4 | 3×4 | 5 | 5 m | 7 m | 4 |
+| HEAVY | 5 | 4×6 | 8 | 4 m | 5 m | 6 |
 
-既定を MID にしたのは、HEAVY の FIELD カメラで線分が 759 本（MEGADEMO の TWIST 566 本・29.8 fps より多い）になるため。なめらかさが主役なので、実機で測るまでは軽い側に置いた。
+既定は MID のまま。実機（2026-09-30）で、MID は大型画面の無いレースが 29.5〜29.9 fps、HEAVY は FIELD で 25.6 fps に落ちた（JS 20.8 ms）。大型画面が映る約 5 秒は MID で 25.7〜27.3 fps、LIGHT で 26.6 fps、HEAVY で 24.3 fps（docs の表）。
 
 ## 試験
 
 ```bash
 # WSL。実物の QuickJS・pocket.kasane・pocket.input.keys で台本を通し、全 draw を 3 通りで実行・全画素比較
-python3 tools/games/run_derby.py            # ASan/UBSan、MID の全台本＋LIGHT/HEAVY の1レース
+python3 tools/games/run_derby.py            # ASan/UBSan、MID の全台本＋LIGHT/HEAVY の1レース＋監督だけ・8 番の CLOSE
 python3 tools/games/run_derby.py --m32      # 実機と同じ 8 B JSValue でゲスト heap を測る
-python3 tools/games/run_derby.py --ppm      # docs/apps/derby-watch-preview.png を作り直す
+python3 tools/games/run_derby.py --ppm      # docs/apps/derby-watch-preview.png と derby-watch-vision-preview.png を作り直す
 node tools/games/tune_derby.mjs 4000        # レースのモデルの Monte Carlo（Windows でも可）
 ```
